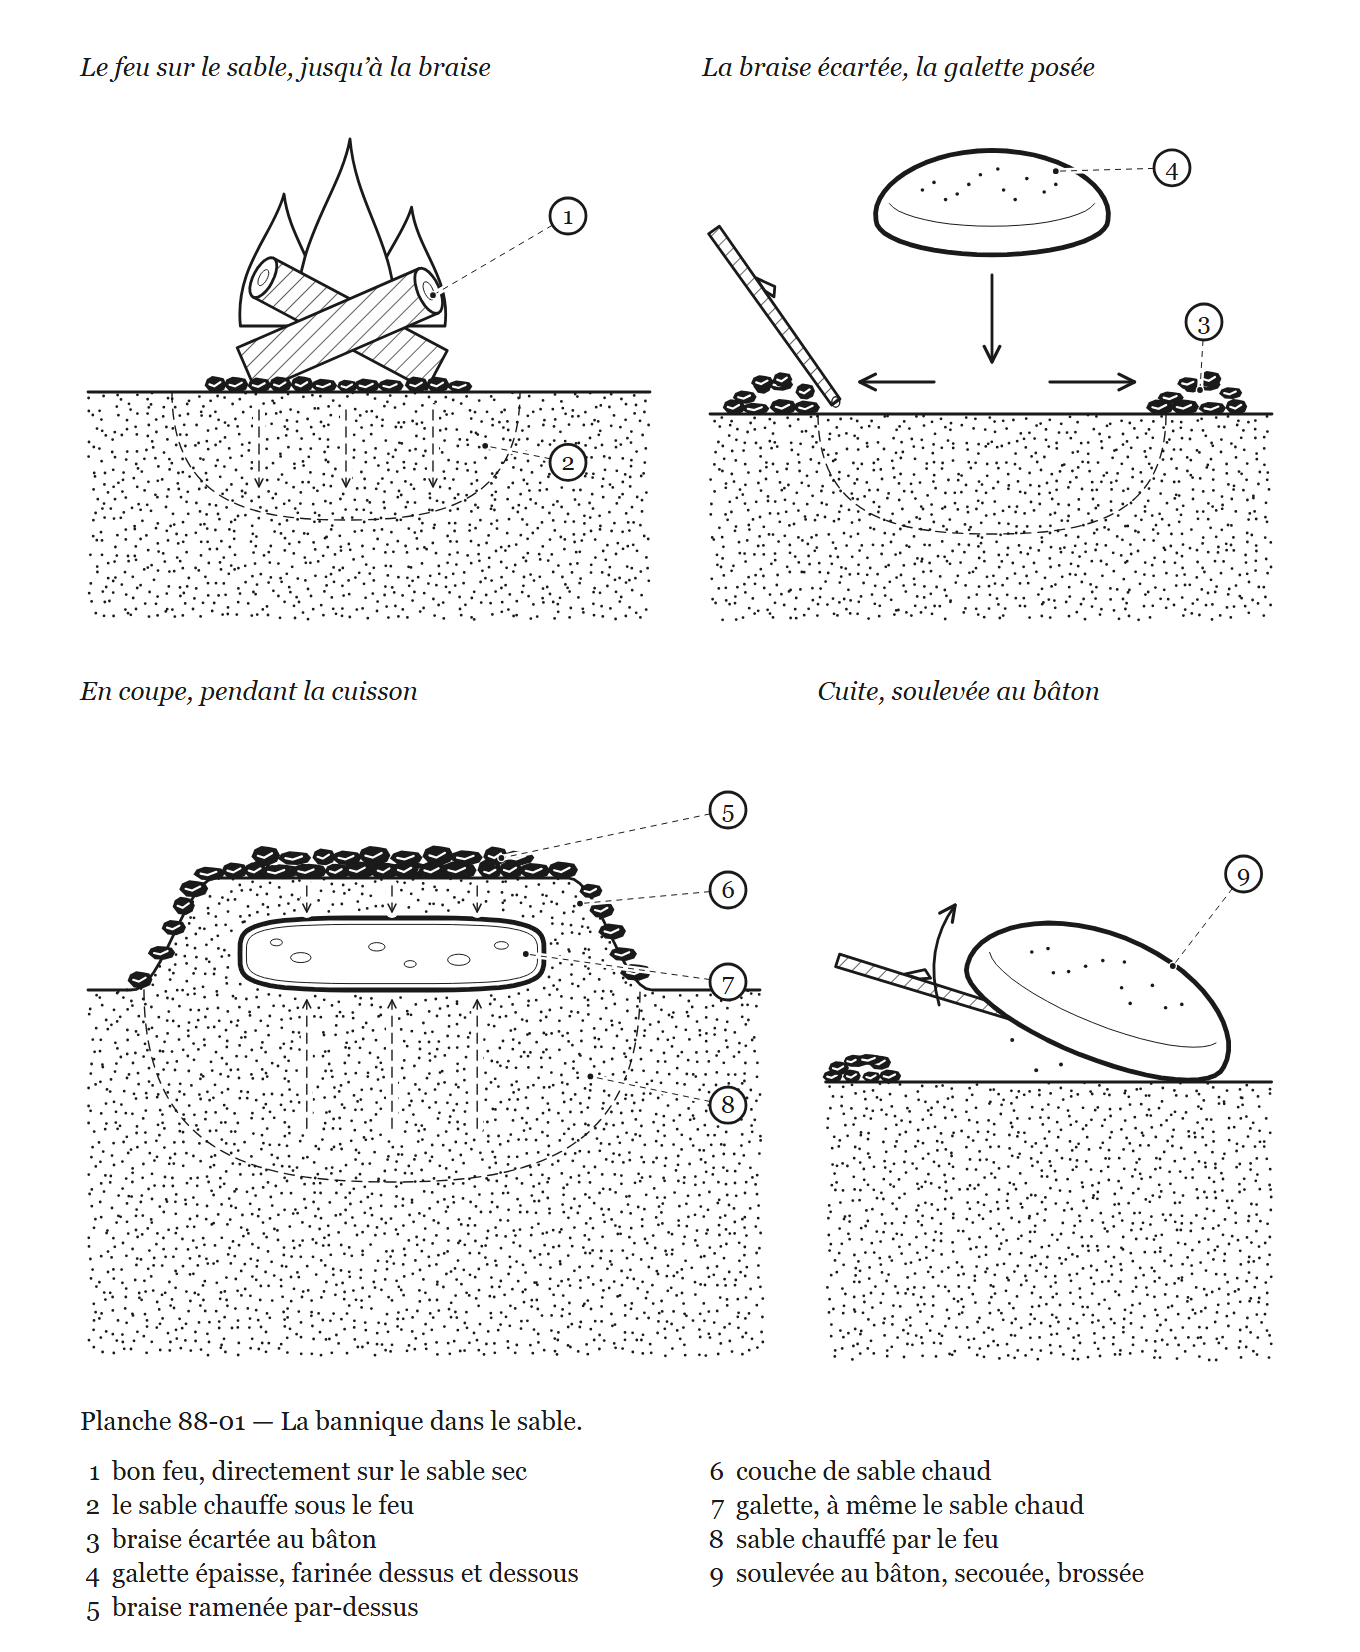
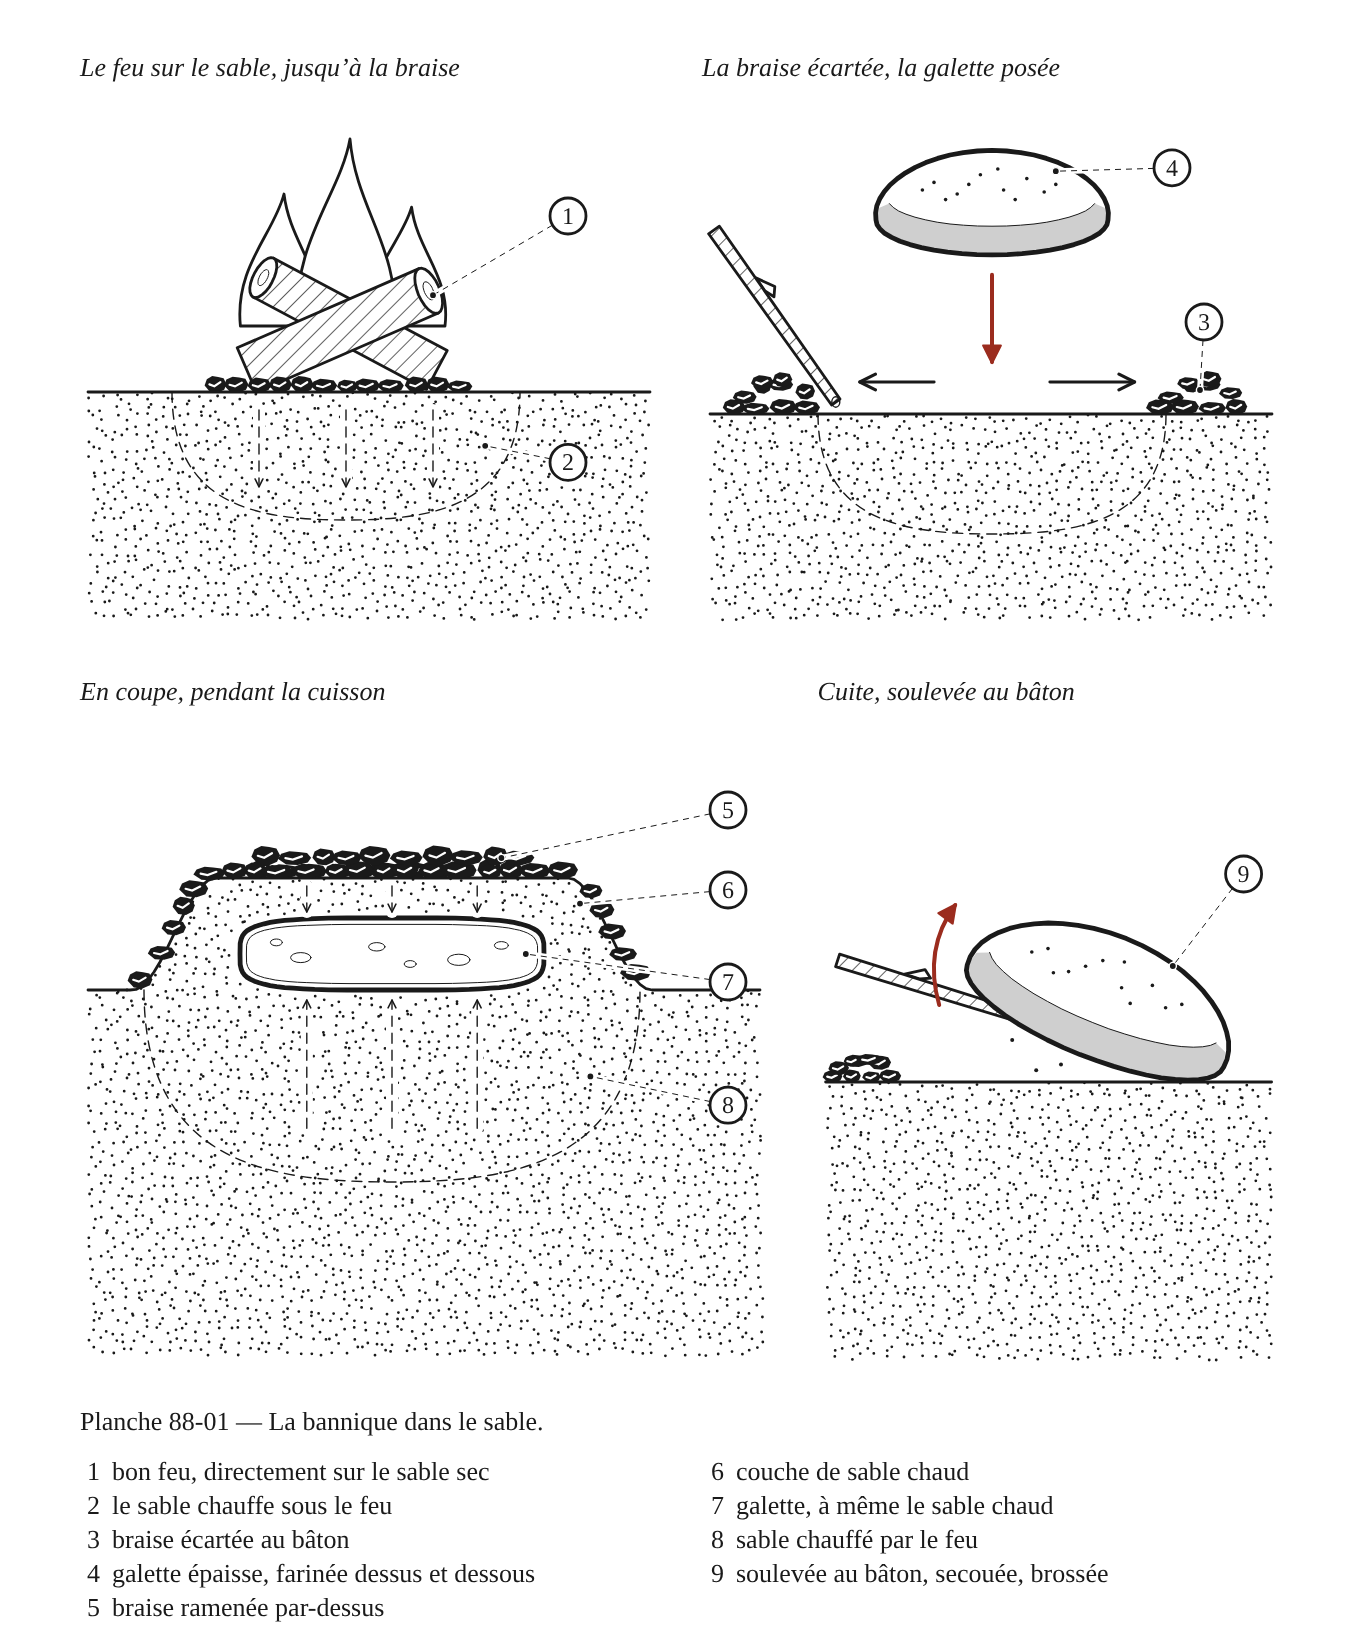
Charte : lot 1, paquet 3 (7 planches)
Claude-Session: https://claude.ai/code/session_014xDY5FLxFXDJt3nYAYznSZ

diff --git a/images/planches-src/29-05.js b/images/planches-src/29-05.js
@@ -220,56 +220,22 @@ module.exports = (h) => {
     return [v.svg, h.fleche(`M${pt(fl[0])} L${pt(fl[1])}`, A.arete), h.controle(pc[0], pc[1], 15)].join('\n');
   };
 
-  // ─── Souffler, vu d'en haut : le visage du bébé couché, de face, et l'anneau des lèvres de
-  // l'aide posé dessus, qui enferme ensemble le nez et la bouche. En mm, repère entre les yeux.
-  const CADRE_D = [-60, 60, -66, 88];
-  const LEVRES = { c: [0, 25.5], ext: [28.5, 22], int: [21, 15.5] };
+  // ─── Souffler, bouche sur bouche et nez, de profil (JP, 14 octobre : « passe-les de profil »).
+  // Le bébé de « la tête droite », en gros plan, coupé après les épaules ; au-dessus, la tête de
+  // l'aide (bibliothèque de formes), le visage vers le bas, le front vers la tête du bébé : ses
+  // lèvres couvrent ensemble le nez et la bouche du bébé. La tête de l'aide est peinte après le
+  // bébé : son blanc cache le nez et la bouche qu'elle couvre.
+  const XS = 118, CADRE_D = [-150, XS + 2, -336, 34];
+  const BOUCHE = [20, -133];                   // le point de la bouche de l'aide, entre le nez et les lèvres du bébé
+  const BOUCHE_TETE = [35.5, 100.5];           // la bouche de la tête, tournée de -90° en miroir, depuis son repère
   const dessus = z => {
-    const { k, V } = cadre(z, ...CADRE_D);
-    const P = pts => pts.map(V);
-    const out = [];
-    // le cou et les épaules, coupés par une brisure au haut de la poitrine
-    const Y_BR = 82;
-    const epD = [[19, 46], [23, 58], [32, 66], [46, 71], [55, 76], [58, Y_BR]];
-    const epG = miroir(epD).reverse();
-    const br = [];
-    for (let i = 0; i <= 10; i++) br.push([58 - 116 * i / 10, Y_BR + (i > 0 && i < 10 ? (i % 2 ? 2.5 : -2.5) : 0)]);
-    out.push(h.path(lisse(P(epG)) + ` L${pt(V(epD[0]))}` + lisse(P(epD), false, true) + lisse(P(br), false, true) + ' Z', A.blanc));
-    out.push(h.path(lisse(P(epG)), A.arete));
-    out.push(h.path(lisse(P(epD)), A.arete));
-    out.push(h.path(lisse(P(br)), A.detail));
-    out.push(h.path(lisse(P([[-14, 58.5], [0, 62], [14, 58.5]])), A.fin));      // le pli du cou
-    // les oreilles, sur les côtés de la tête
-    const oreilleD = [[43, -7], [50, -9.5], [55, -3], [55.5, 7], [52.5, 16], [46, 21], [42, 17]];
-    for (const o of [oreilleD, miroir(oreilleD)]) out.push(h.path(lisse(P(o), true), blanc(A.arete)));
-    for (const o of [[[48, -4], [51.5, 1], [51.5, 9], [48.5, 14.5]], miroir([[48, -4], [51.5, 1], [51.5, 9], [48.5, 14.5]])]) out.push(h.path(lisse(P(o)), A.fin));
-    // la tête : un gros crâne, les joues rondes, un petit menton
-    const TFd = [[0, -62], [25, -58.5], [41.5, -46], [48.5, -25], [47.5, -4], [45, 15], [41, 31.5], [32.5, 44.5], [18.5, 52.5]];
-    const TF = [...TFd, [0, 55], ...miroir(TFd.slice(1)).reverse()];
-    out.push(h.path(lisse(P(TF), true), blanc(A.arete)));
-    // les sourcils, les yeux fermés
-    const sourcil = [[9, -11], [18, -12.5], [27, -10]], oeil = [[9.5, -0.5], [18, 3], [26.5, -0.5]];
-    for (const s of [sourcil, miroir(sourcil)]) out.push(h.path(lisse(P(s)), A.fin));
-    for (const s of [oeil, miroir(oeil)]) out.push(h.path(lisse(P(s)), A.arete));
-    // le nez, court et rond : les ailes et les narines
-    const aile = [[3.5, 12], [8.5, 14.5], [9, 18.5], [5.5, 20.5]];
-    for (const s of [aile, miroir(aile)]) out.push(h.path(lisse(P(s)), A.detail));
-    out.push(h.path(lisse(P([[-3, 21.8], [0, 22.6], [3, 21.8]])), A.fin));
-    for (const x of [-3.4, 3.4]) out.push(h.ellipse(...V([x, 19.5]), 1.5 * k, 0.9 * k, A.plein));
-    // la bouche fermée
-    out.push(h.path(lisse(P([[-11, 31.5], [-5, 28.8], [0, 30], [5, 28.8], [11, 31.5]])), A.detail));
-    out.push(h.path(lisse(P([[-11, 31.5], [-5, 32.6], [0, 32.2], [5, 32.6], [11, 31.5]])), A.arete));
-    out.push(h.path(lisse(P([[-7.5, 35.5], [0, 37.8], [7.5, 35.5]])), A.detail));
-    // l'anneau des lèvres de l'aide : il cache les joues et laisse voir, dedans, le nez et la bouche
-    const c = V(LEVRES.c);
-    const ext = ellipseD(c, LEVRES.ext[0] * k, LEVRES.ext[1] * k), int = ellipseD(c, LEVRES.int[0] * k, LEVRES.int[1] * k);
-    out.push(h.path(`${ext} ${int}`, `${A.blanc} fill-rule="evenodd"`));
-    out.push(h.path(ext, A.contour));
-    out.push(h.path(int, A.arete));
-    return out.join('\n');
+    const v = vignette(z, A0, CADRE_D, XS);
+    const ancre = v.V([BOUCHE[0] - BOUCHE_TETE[0], BOUCHE[1] - BOUCHE_TETE[1]]);
+    const aide = h.formes.tete({ x: ancre[0], y: ancre[1], echelle: v.k, angle: -90, cote: 'gauche', age: 'adulte' });
+    return `<clipPath id="vue-2905-souffler"><rect x="0" y="0" width="${f(z.l)}" height="${f(z.h)}" fill="#FFFFFF"/></clipPath>\n` +
+      `<g clip-path="url(#vue-2905-souffler)">\n${v.svg}\n${aide}\n</g>`;
   };
   const posD = (z, p) => cadre(z, ...CADRE_D).V(p);
-  const surLevres = (deg) => [LEVRES.c[0] + LEVRES.ext[0] * Math.cos(deg * RAD), LEVRES.c[1] + LEVRES.ext[1] * Math.sin(deg * RAD)];
 
   return {
     ref: '29-05',
@@ -302,10 +268,10 @@ module.exports = (h) => {
         ],
       },
       dessus: {
-        titre: 'Souffler, vu d’en haut',
+        titre: 'Bouche sur bouche et nez',
         dessin: dessus,
         renvois: z => [
-          { n: 6, rond: posD(z, [48, 60]), cible: posD(z, surLevres(35)), texte: 'bouche sur bouche et nez' },
+          { n: 6, rond: posD(z, [96, -128]), cible: posD(z, [30, -131]), texte: 'bouche sur bouche et nez' },
         ],
       },
       souffler: {

diff --git a/images/planches-src/80-40.js b/images/planches-src/80-40.js
@@ -4,6 +4,10 @@
 // longueur. Le seul chiffre dessiné est la hauteur de saumure au-dessus du chou (au moins 3 cm).
 // La bonde d'eau, le chapitre la décrit sur un couvercle de pot : elle est dessinée sur le pot
 // Mason, pas sur le baril, que le chapitre laisse ouvert sous son sac de saumure.
+// La charte : dans le baril en coupe, la paroi d'en face, vue par-dessus le sac, en gris loin ; le
+// baril vu de dehors a sa face de droite à l'ombre. Le rouge : le coup de maillet (le geste), et le
+// pourtour où le sac se plaque à la paroi, là où l'air passerait. Les flèches des cercles qui
+// descendent ou montent, du gaz et de l'air restent noires.
 module.exports = (h) => {
   const A = h.a;
   const r1 = n => Math.round(n * 10) / 10;
@@ -84,6 +88,8 @@ module.exports = (h) => {
     const ys = yl - 18;                                // surface de la saumure
     const xg = y => cx - Ri(y), xd = y => cx + Ri(y);
 
+    // la paroi d'en face, vue par-dessus le sac : en gris loin
+    out.push(h.path(poly([...courbe(xg, yt, yFondH - eFond, 24), ...courbe(xd, yFondH - eFond, yt, 24)]), A.loin));
     // le fond de la paroi d'en face, vu de l'intérieur : les joints du merrain
     for (let k = -3; k <= 3; k++) {
       const s = Math.sin(k * Math.PI / 8);
@@ -139,6 +145,8 @@ module.exports = (h) => {
     // le cadre du grossissement
     const gx0 = cx - Ro(ys) - 10, gy0 = ys - 40;
     out.push(h.rect(gx0, gy0, 86, 72, A.cache));
+    // le point qui décide : le sac plaqué à la paroi ferme le pourtour, là où l'air passerait
+    out.push(h.controle(xd(ys) - 4, ys - 3, 11));
 
     return {
       svg: out.join('\n'),
@@ -272,7 +280,11 @@ module.exports = (h) => {
     const ry = 9;                                  // le baril vu un peu d'en haut
     // silhouette
     const g = courbe(y => cx - R(y), yt, yb), d = courbe(y => cx + R(y), yb, yt);
-    out.push(h.path(poly([...g, ...d]), bC));
+    out.push(h.path(poly([...g, ...d]), A.blanc));
+    // la face de droite du baril, à l'ombre : du joint du merrain au flanc
+    const s2 = Math.sin(2 * Math.PI / 8), c2 = Math.cos(2 * Math.PI / 8);
+    out.push(h.path(poly([...courbe(y => cx + R(y) * s2, yt + ry * c2, yb + ry * c2 * 0.9, 16), ...courbe(y => cx + R(y), yb, yt, 16)]), A.ombre));
+    out.push(h.path(poly([...g, ...d]), A.contour));
     // le bas : l'arc de devant
     out.push(h.path(`M${r1(cx - re)} ${r1(yb)} A${r1(re)} ${ry} 0 0 0 ${r1(cx + re)} ${r1(yb)}`, A.contour));
     // l'ouverture du haut
@@ -310,7 +322,7 @@ module.exports = (h) => {
     };
     const xm = cx - R(yq) + 8;
     out.push(maillet(xm, 1, bD, blanc(A.hachure('bois', 'contour'))));
-    out.push(h.fleche(`M${r1(xm - 34)} ${r1(yq - th - 30)} Q${r1(xm - 4)} ${r1(yq - th - 34)} ${r1(xm)} ${r1(yq - th - 10)}`, A.arete));
+    out.push(h.geste(`M${r1(xm - 34)} ${r1(yq - th - 30)} Q${r1(xm - 4)} ${r1(yq - th - 34)} ${r1(xm)} ${r1(yq - th - 10)}`));
     // son coup suivant, de l'autre côté
     const xm2 = cx + R(yq) - 8;
     out.push(maillet(xm2, -1, A.cache, A.cache));

diff --git a/images/planches-src/88-01.js b/images/planches-src/88-01.js
@@ -3,6 +3,9 @@
 // la galette posée, la cuisson en coupe (sable chauffé dessous, galette, couche de sable,
 // braise ramenée), la galette cuite soulevée au bâton.
 // Aucune cote : le chapitre ne donne aucune dimension pour cette façon de faire.
+// La charte : la galette garde son contour fort ; son épaisseur, vue un peu d'en haut, à
+// l'ombre (la face de dessous). Pas de gris sur la coupe ni sur le sable. Le rouge : la
+// galette qu'on pose, le bâton qu'on lève (un geste par vue) ; la chaleur reste en noir.
 
 module.exports = (h) => {
   const f = v => Math.round(v * 10) / 10;
@@ -116,8 +119,14 @@ module.exports = (h) => {
     const farine = [[-0.5, -0.1], [-0.3, 0.2], [-0.1, -0.3], [0.1, 0.1], [0.3, -0.2], [0.45, 0.15], [-0.2, -0.05], [0.2, 0.35], [-0.4, 0.35], [0.05, -0.45], [0.55, -0.05], [-0.6, 0.1]]
       .map(([u, v]) => [cx + u * a, yb - ep * 0.62 - b * 0.35 + v * b * 1.1]);
     const T = p => tourne(p, ang, px, py);
+    // l'épaisseur, face de dessous : entre le rebord du dessus et le bord du dessous, à l'ombre
+    const [r0, r1] = [rebord[0], rebord[rebord.length - 1]];
+    const flanc = [...rebord, [cx + a * 0.97, yb - ep * 0.35], [cx + a, yb], ...[...dessous].reverse(), [cx - a * 0.97, yb - ep * 0.35], r0];
+    void r1;
     return [
-      h.chemin(T(contour), blancContour, true),
+      h.chemin(T(contour), h.a.blanc, true),
+      h.chemin(T(flanc), h.a.ombre, true),
+      h.chemin(T(contour), h.a.contour, true),
       h.chemin(T(rebord), h.a.fin),
       ...T(farine).map(([x, y]) => h.cercle(x, y, 0.9, h.a.plein)),
     ].join('\n');
@@ -251,7 +260,8 @@ module.exports = (h) => {
           out.push(h.fleche(`M ${f(g.cx + z.l * 0.1)} ${f(g.yG - 16)} L ${f(g.xTd - z.l * 0.12)} ${f(g.yG - 16)}`));
           // la galette, qui descend se poser à même le sable chaud
           out.push(miche(g.cx, g.yGal, g.a, g.a * 0.3));
-          out.push(h.fleche(`M ${f(g.cx)} ${f(g.yGal + g.a * 0.3 + 10)} L ${f(g.cx)} ${f(g.yG - 26)}`));
+          // le geste : poser la galette à même le sable chaud
+          out.push(h.geste(`M ${f(g.cx)} ${f(g.yGal + g.a * 0.3 + 10)} L ${f(g.cx)} ${f(g.yG - 26)}`));
           return out.join('\n');
         },
         renvois: z => {
@@ -317,7 +327,7 @@ module.exports = (h) => {
           });
           // le geste : le bâton se lève
           const [xl, yl] = tourne([[g.cx - g.a, g.yb]], g.ang, g.px, g.py)[0];
-          out.push(h.fleche(`M ${f(xl - 14)} ${f(yl + 20)} Q ${f(xl - 22)} ${f(yl - 8)} ${f(xl - 6)} ${f(yl - 30)}`));
+          out.push(h.geste(`M ${f(xl - 14)} ${f(yl + 20)} Q ${f(xl - 22)} ${f(yl - 8)} ${f(xl - 6)} ${f(yl - 30)}`));
           return out.join('\n');
         },
         renvois: z => {
